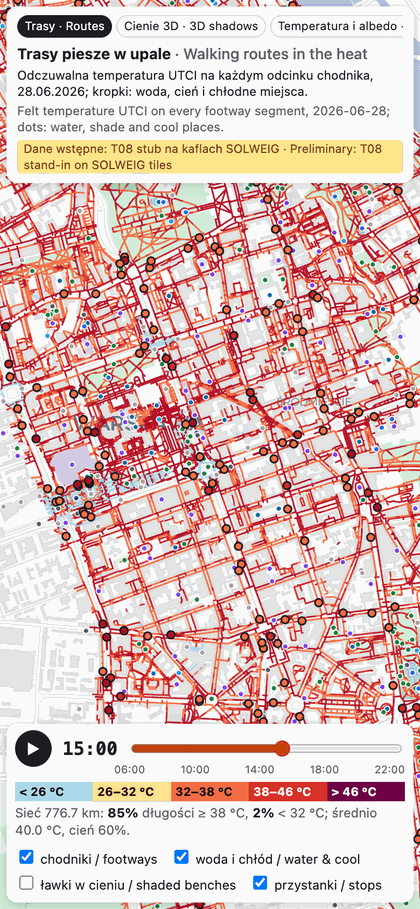
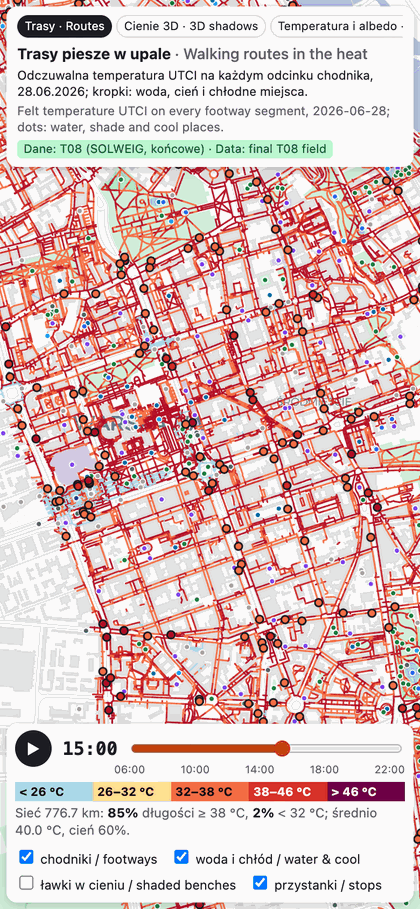
T13: heat-views on final T08 field; report and screenshots

Changed region(s): [[0.0, 0.154, 0.9905, 0.2156], [0.2786, 0.2772, 0.3095, 0.308]]

diff --git a/reports/T13/README.md b/reports/T13/README.md
@@ -58,7 +58,7 @@ The pages work on a laptop and at 390 px phone width. On phones they use 4 m sha
   - 85 % of network length is ≥ 38 °C UTCI (very strong heat stress), and only 2 % is below 32 °C.
   - The length-weighted mean is 40.0 °C, and 60 % of the length is shaded.
   - At 06:00, 98 % is below 26 °C. By 09:00, 31 % is already above 32 °C.
-  - Source: T08 stub field, see below.
+  - Source: final T08 field.
 - **Shade is worth about 6 K of UTCI at 15:00:** 43.8 °C in sun vs 38.0 °C in shade, with air at 37.2 °C. Tree cover keeps ground pixels at 8 % sunlit all day, against 70–78 % for paved ground at midday.
 - **Evening:** after 20:00 almost the whole network is in shade (97 %), but UTCI stays at 30–33 °C. The values for 21:00–22:00 are a lower bound, because SOLWEIG has no heat release from pavement after sunset (spec §6). The pages say this for steps 30–32.
 
@@ -70,7 +70,11 @@ The routes page uses the final `warsaw_heat.t08_segment_heat` / `t08_stop_heat` 
 gcloud builds submit --config views/cloudbuild.yaml --region europe-central2 views
 ```
 
-The build picks the source on its own (`_HEAT=auto`; `final` or `stub` can be forced). The page shows the source as a badge. At the time of this report it is **stub**, a stand-in computed by T08 from the 27 SOLWEIG district tiles. Integration should rerun the command once T08 writes `_SUCCESS`; see the status line at the end.
+The build picks the source on its own (`_HEAT=auto`; `final` or `stub` can be forced). The page shows the source as a badge.
+
+- **Status:** T08 wrote `_SUCCESS` at about 03:10 UTC. The service was rebuilt at 03:14 UTC and now serves the **final** tables (green badge "Dane: T08 (SOLWEIG, końcowe)").
+- **Final vs stub:** the length-weighted summaries of the final field match the earlier stub build (the T08 stand-in on the same 27 SOLWEIG tiles) to 0.01 °C at every step.
+- **Rerun:** run the command again if T08 or T12 change.
 
 ## Decisions
 
@@ -84,6 +88,6 @@ The build picks the source on its own (`_HEAT=auto`; `final` or `stub` can be fo
 
 - **heat-app does not link here yet:** its `HEAT_VIEWS_URL` is empty. T10 or integration should run `gcloud run services update heat-app --region europe-central2 --update-env-vars HEAT_VIEWS_URL=https://heat-views-269831067246.europe-central2.run.app`. T13 did not change T10's service.
 - **Water pixels have the highest mean UTCI in the per-surface chart** (43.3 °C at 15:00). Water is open and sunlit, and SOLWEIG runs without land cover, so it treats water like any other ground. The chart shows this as it is.
-- **2 % of network length stays below 32 °C all day.** These are mostly indoor and covered segments, which get a constant value under T08's rules.
+- **2 % of network length stays below 32 °C all day.** These are the 1,546 indoor segments, which T08's `indoor` rule sets to a constant 26 °C.
 - **The 2 m shadow frames are about 1.1 MB each**, so playing the desktop 3D view on a slow connection loads frames late. The 4 m frames are used on phones.
 - **Screenshots** come from headless Chrome with SwiftShader WebGL. Real GPUs render faster and show the same content.
